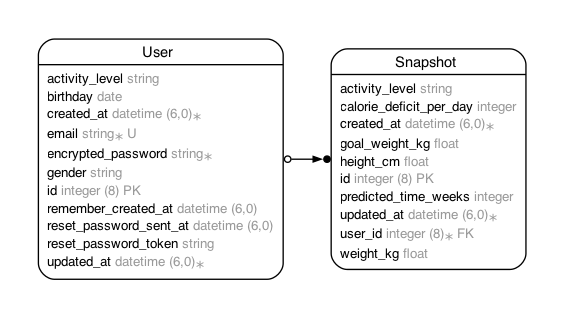
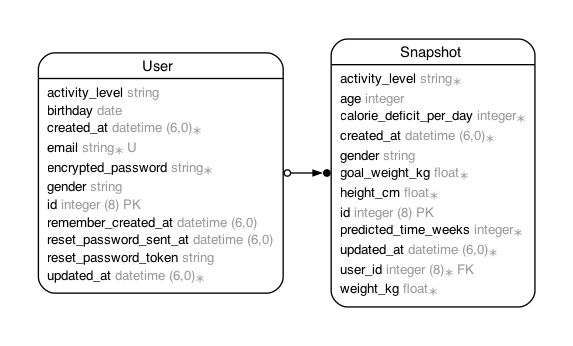
trying to add gender and age to snapshot to calculate bmr

Changed region(s): [[0.0603, 0.0849, 0.9344, 0.9057]]

diff --git a/app/controllers/snapshots_controller.rb b/app/controllers/snapshots_controller.rb
@@ -10,10 +10,11 @@ class SnapshotsController < ApplicationController
   def show
   end
 
-  # GET /snapshots/new
   def new
     @snapshot = Snapshot.new
     @snapshot.user = current_user 
+    @snapshots = Snapshot.where(user: current_user)
+    
   end
 
   # GET /snapshots/1/edit
@@ -23,6 +24,7 @@ class SnapshotsController < ApplicationController
   # POST /snapshots or /snapshots.json
   def create
     @snapshot = Snapshot.new(snapshot_params)
+    @snapshot.user = current_user
 
     respond_to do |format|
       if @snapshot.save
@@ -59,13 +61,12 @@ class SnapshotsController < ApplicationController
   end
 
   private
-    # Use callbacks to share common setup or constraints between actions.
-    def set_snapshot
-      @snapshot = Snapshot.find(params[:id])
-    end
 
-    # Only allow a list of trusted parameters through.
-    def snapshot_params
-      params.require(:snapshot).permit(:user_id, :height_cm, :weight_kg, :activity_level, :goal_weight_kg, :predicted_time_weeks, :calorie_deficit_per_day)
-    end
+  def set_snapshot
+    @snapshot = Snapshot.find(params[:id])
+  end
+
+  def snapshot_params
+    params.require(:snapshot).permit(:height_cm, :weight_kg, :activity_level, :goal_weight_kg, :predicted_time_weeks, :calorie_deficit_per_day, :gender, :age)
+  end
 end

diff --git a/app/models/snapshot.rb b/app/models/snapshot.rb
@@ -4,7 +4,9 @@
 #
 #  id                      :bigint           not null, primary key
 #  activity_level          :string
+#  age                     :integer
 #  calorie_deficit_per_day :integer
+#  gender                  :string
 #  goal_weight_kg          :float
 #  height_cm               :float
 #  predicted_time_weeks    :integer
@@ -36,10 +38,10 @@ class Snapshot < ApplicationRecord
   validates :goal_weight_kg, presence: true, numericality: { greater_than: 0 }
   validates :predicted_time_weeks, presence: true, numericality: { greater_than: 0 }
   validates :calorie_deficit_per_day, presence: true, numericality: { greater_than: 0 }
+  validates :gender, presence: true, inclusion: { in: ['male', 'female'] }
+  validates :age, presence: true, numericality: { greater_than: 0 }
 
   def bmr
-    # Ensure that the associated user has gender and age defined
-    raise "Gender and age are required for BMR calculation" unless user.gender && user.age
   
     # Use the Mifflin-St Jeor Equation
     if user.gender.downcase == "male"

diff --git a/db/schema.rb b/db/schema.rb
@@ -10,7 +10,7 @@
 #
 # It's strongly recommended that you check this file into your version control system.
 
-ActiveRecord::Schema[7.1].define(version: 2024_12_10_003411) do
+ActiveRecord::Schema[7.1].define(version: 2024_12_21_203524) do
   # These are extensions that must be enabled in order to support this database
   enable_extension "plpgsql"
 
@@ -24,6 +24,8 @@ ActiveRecord::Schema[7.1].define(version: 2024_12_10_003411) do
     t.integer "calorie_deficit_per_day"
     t.datetime "created_at", null: false
     t.datetime "updated_at", null: false
+    t.string "gender"
+    t.integer "age"
     t.index ["user_id"], name: "index_snapshots_on_user_id"
   end
 

diff --git a/db/migrate/20241221203524_add_gender_and_age_to_snapshots.rb b/db/migrate/20241221203524_add_gender_and_age_to_snapshots.rb
@@ -1,0 +1,6 @@
+class AddGenderAndAgeToSnapshots < ActiveRecord::Migration[7.1]
+  def change
+    add_column :snapshots, :gender, :string
+    add_column :snapshots, :age, :integer
+  end
+end
